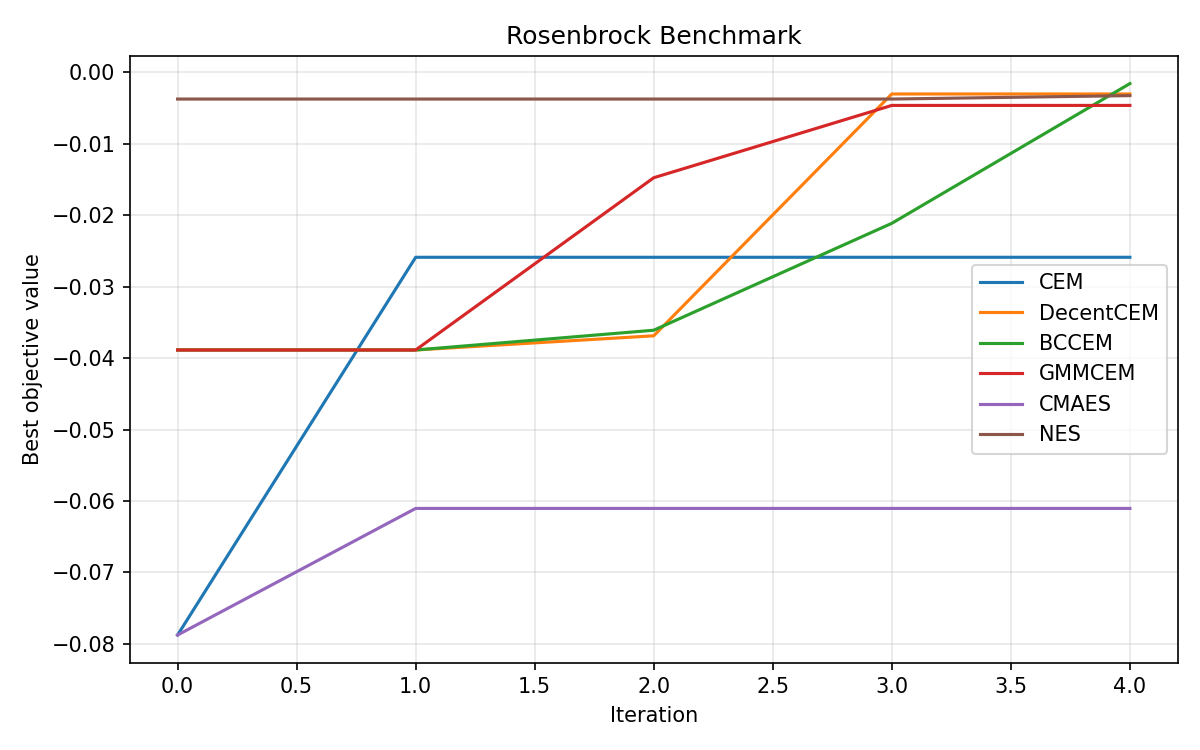
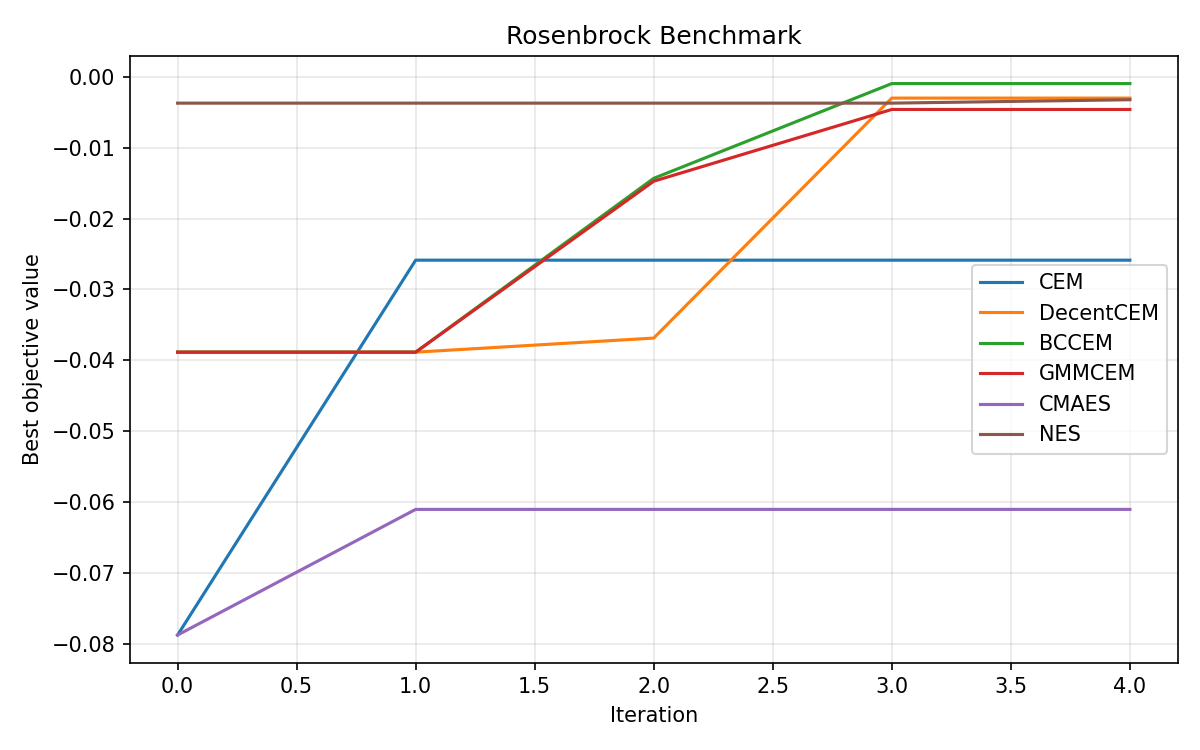
update

diff --git a/mbrl/planning/trajectory_opt.py b/mbrl/planning/trajectory_opt.py
@@ -206,6 +206,7 @@ class DecentCEMOptimizer(Optimizer):
         return_mean_elites: bool = False,
         clipped_normal: bool = False,
         init_jitter_scale: float = 0.0,
+        min_component_weight: float = 0.1,
     ):
         super().__init__()
         self.num_iterations = num_iterations
@@ -420,26 +421,19 @@ class BCCEMOptimizer(DecentCEMOptimizer):
             )
             values[values.isnan()] = -1e-10
 
-            # callback later, after BC/IR computed
-
-            # elites per worker
             best_values, elite_idx = values.topk(self.elite_num, dim=1)
             worker_indices = torch.arange(self.num_workers, device=self.device).view(
                 -1, 1
             )
             elite = population[worker_indices, elite_idx]
 
-            # --- 2) Standard DecentCEM update (raw step) ---
-            mu_old = mu.clone()  # keep old means to see the raw step
+            # --- 2) Update population params (mu, dispersion) ---
+            mu_old = mu.clone()  
             mu, dispersion = self._update_population_params(elite, mu, dispersion)
 
             # --- 3) BC + IR + second moment v (from raw mu) ---
             # worker "rewards": average elite value per worker
             rewards = torch.mean(best_values, dim=1)  # (K,)
-
-            # try average of all samples instead of elites only
-            # rewards = torch.mean(values, dim=1)  # (K,)
-
             logits = (rewards - rewards.max()) / max(self.tau, 1e-8)
             w = torch.softmax(logits, dim=0)  # (K,)
 
@@ -448,12 +442,10 @@ class BCCEMOptimizer(DecentCEMOptimizer):
 
             # centroid variance proxy sigma^2_c_raw
             if self._clipped_normal:
-                # dispersion is std
                 sigma2_c_raw = (w.view(-1, 1, 1) * (dispersion ** 2)).sum(dim=0)
             else:
-                # dispersion is var
                 sigma2_c_raw = (w.view(-1, 1, 1) * dispersion).sum(dim=0)
-            sigma2_c_raw = torch.clamp(sigma2_c_raw, min=1e-6)
+            sigma2_c_raw = torch.clamp(sigma2_c_raw, min=DISPERSION_EPS)
             sigma_c_raw = torch.sqrt(sigma2_c_raw)
 
             # normalized offsets: diff = (mu - mu_c)/sigma_c
@@ -467,9 +459,8 @@ class BCCEMOptimizer(DecentCEMOptimizer):
             # v_current[j] = sum_k w_k * diff_{k,j}^2
             v_current = (w.view(-1, 1, 1) * (diff_raw ** 2)).sum(dim=0)  # (H, A)
 
-            # --- 4) preconditioning of the step ---
+            # --- 4) Adam-style preconditioning of the step ---
             if self.enable_precond:
-                self._v_step += 1
                 if self._v is None:
                     self._v = v_current.detach()
                 else:
@@ -478,16 +469,12 @@ class BCCEMOptimizer(DecentCEMOptimizer):
                         + (1.0 - self.beta2) * v_current.detach()
                     )
 
-                norm_v = self._v
-                if self.bias_correction:
-                    bias_corr = 1.0 - (self.beta2 ** self._v_step)
-                    norm_v = norm_v / (bias_corr + self._eps)
+                # normalize v by its mean to get a dimensionless spread
+                v_mean = self._v.mean()
+                norm_v = self._v / (v_mean + self._eps)
 
                 # preconditioner: smaller where spread is large
-                sigma_offset = torch.clamp(
-                    1.0 + self.sigma_precond_scale * sigma_c_raw, min=self._eps
-                )
-                precond = 1.0 / torch.sqrt(norm_v + sigma_offset)  # (H, A)
+                precond = 1.0 / torch.sqrt(norm_v + 1.0)  # (H, A)
                 precond = precond.clamp(self.precond_min, self.precond_max)
                 precond = precond.unsqueeze(0)  # (1, H, A) for broadcasting
 
@@ -551,6 +538,7 @@ class GMMCEMOptimizer(Optimizer):
         return_mean_elites: bool = False,
         clipped_normal: bool = False,
         init_jitter_scale: float = 0.0,
+        min_component_weight: float = 0.1,
     ):
         super().__init__()
         self.num_iterations = num_iterations
@@ -570,7 +558,7 @@ class GMMCEMOptimizer(Optimizer):
         self.init_jitter_scale = init_jitter_scale
 
         # EXTRA: min component weight to avoid collapse
-        self.min_component_weight = max(0.0, float(0.1))
+        self.min_component_weight = max(0.0, float(min_component_weight))
 
     def _init_population_params(
         self, x0: torch.Tensor
@@ -710,7 +698,6 @@ class GMMCEMOptimizer(Optimizer):
         if self.return_mean_elites:
             return mu[best_worker]
         return best_solution
-
 
 class NESOptimizer(Optimizer):
     """Implements a Natural Evolution Strategy (NES) optimizer.

diff --git a/notebooks/benchmark_cem_cma_nes.py b/notebooks/benchmark_cem_cma_nes.py
@@ -205,7 +205,7 @@ def plot_curves(curves: Dict[str, np.ndarray], title: str, filename: str) -> Non
     plt.grid(True, alpha=0.3)
     plt.tight_layout()
     plt.savefig(filename, dpi=150)
-    plt.show()
+    # plt.show()
 
 
 def plot_bccem_diagnostics(
@@ -272,7 +272,7 @@ def plot_bccem_diagnostics(
     fig.suptitle(title)
     plt.tight_layout()
     plt.savefig(f"{filename_prefix}_bccem.png", dpi=150)
-    plt.show()
+    # plt.show()
 
 
 def plot_population_snapshots(
@@ -309,7 +309,7 @@ def plot_population_snapshots(
     plt.ylabel("y")
     plt.tight_layout()
     plt.savefig(filename, dpi=150)
-    plt.show()
+    # plt.show()
 
 
 def plot_kde_subplots(
@@ -376,7 +376,7 @@ def plot_kde_subplots(
     fig.suptitle(title)
     plt.tight_layout()
     plt.savefig(filename, dpi=150)
-    plt.show()
+    # plt.show()
 
 
 def main() -> None:
@@ -427,6 +427,11 @@ def main() -> None:
         rastrigin_pops,
         "Rastrigin KDEs",
         str(output_dir / "kde_rastrigin.png"),
+    )
+    plot_covariance_matrices(
+        rastrigin_pops,
+        "Rastrigin Covariances",
+        str(output_dir / "cov_rastrigin.png"),
     )
     if "BCCEM" in rastrigin_extra:
         plot_bccem_diagnostics(

diff --git a/mbrl/examples/scripts/plot_pets_optimizer_benchmark.py b/mbrl/examples/scripts/plot_pets_optimizer_benchmark.py
@@ -42,7 +42,7 @@ def parse_args() -> argparse.Namespace:
     parser.add_argument(
         "--agg",
         choices=["max", "last", "mean"],
-        default="max",
+        default="mean",
         help="Reduction over each run's timeseries (for episode_reward use max/last; for planning_time_ms use mean).",
     )
     parser.add_argument(
@@ -80,6 +80,8 @@ def load_metric(
     curve: List[Tuple[float, float]] = []
     with results_path.open("r", newline="") as f:
         reader = csv.DictReader(f)
+        if reader.fieldnames is None:
+            raise ValueError(f"No columns found in {results_path}")
         if metric != "training_curve" and metric not in reader.fieldnames:
             raise KeyError(f"Metric '{metric}' not found in {results_path}")
         for row in reader:
